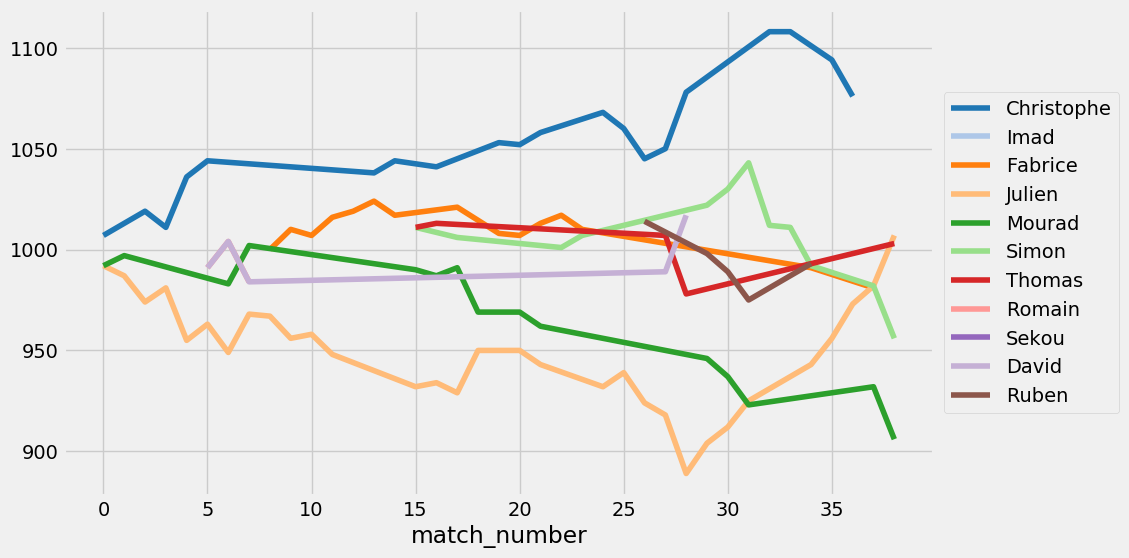
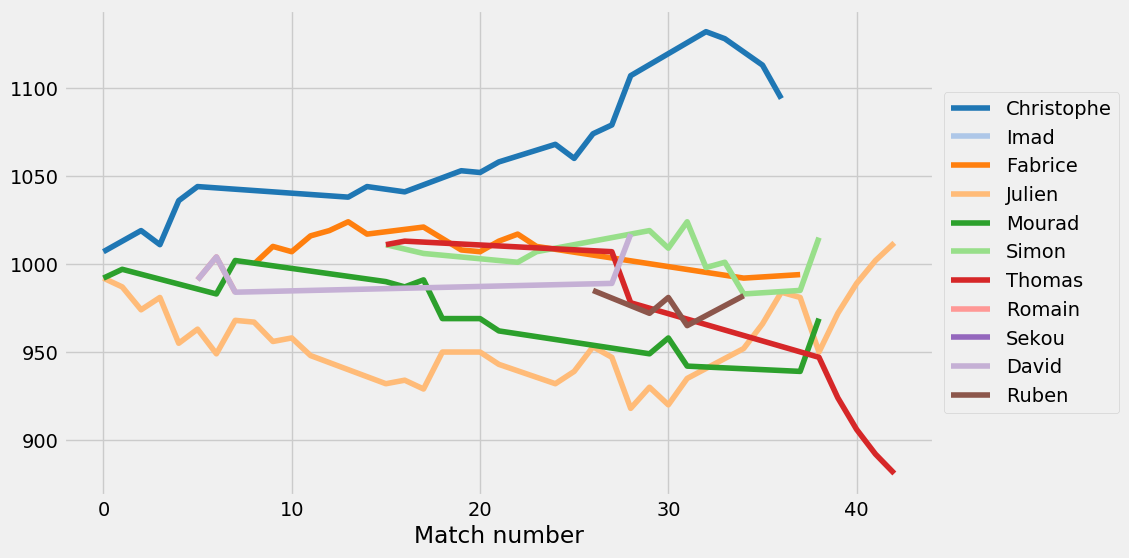
Correct bug

diff --git a/server.py b/server.py
@@ -166,9 +166,9 @@ class myHandler(BaseHTTPRequestHandler):
                     expected_scores.append(1 / (1 + 10**((elos[0] - elos[1])/500)))
                     if scores[0] > scores[1]:
                         updated_elos.append(elos[0] + 100 * ((max(scores) / (max(scores) + min(scores))) - expected_scores[0]))
-                        updated_elos.append(elos[1] + 100 * (1 - (max(scores) / ((max(scores) + min(scores)))) - expected_scores[1])) 
+                        updated_elos.append(elos[1] + 100 * (1 - (max(scores) / (max(scores) + min(scores))) - expected_scores[1])) 
                     else:
-                        updated_elos.append(elos[0] + 100 * (1 - (max(scores) / ((max(scores) + min(scores)))) - expected_scores[0]))
+                        updated_elos.append(elos[0] + 100 * (1 - (max(scores) / (max(scores) + min(scores))) - expected_scores[0]))
                         updated_elos.append(elos[1] + 100 * ((max(scores) / (max(scores) + min(scores))) - expected_scores[1]))
                 else:
                     expected_scores.append(1 / (1 + 10**(((((elos[2] + elos[3]) / 2) - ((elos[0] + elos[1])) / 2)) / 500)))
@@ -176,13 +176,13 @@ class myHandler(BaseHTTPRequestHandler):
                     if scores[0] > scores[1]:
                         updated_elos.append(elos[0] + 100 * ((max(scores) / (max(scores) + min(scores))) - expected_scores[0]))
                         updated_elos.append(elos[1] + 100 * ((max(scores) / (max(scores) + min(scores))) - expected_scores[0]))
-                        updated_elos.append(elos[2] + 100 * ((1 - (max(scores)/(max(scores) + min(scores)))) - expected_scores[1])) 
-                        updated_elos.append(elos[3] + 100 * ((1 - (max(scores)/(max(scores) + min(scores)))) - expected_scores[1])) 
+                        updated_elos.append(elos[2] + 100 * (1 - (max(scores) / (max(scores) + min(scores))) - expected_scores[1])) 
+                        updated_elos.append(elos[3] + 100 * (1 - (max(scores) / (max(scores) + min(scores))) - expected_scores[1])) 
                     else:
-                        updated_elos.append(elos[0] + 100 * ((max(scores) / (max(scores) + min(scores))) - expected_scores[0]))
-                        updated_elos.append(elos[1] + 100 * ((max(scores) / (max(scores) + min(scores))) - expected_scores[0]))
-                        updated_elos.append(elos[2] + 100 * ((1 - (max(scores) / (max(scores) + min(scores)))) - expected_scores[1]))
-                        updated_elos.append(elos[3] + 100 * ((1 - (max(scores) / (max(scores) + min(scores)))) - expected_scores[1]))
+                        updated_elos.append(elos[0] + 100 * (1 - (max(scores) / (max(scores) + min(scores))) - expected_scores[0]))
+                        updated_elos.append(elos[1] + 100 * (1 - (max(scores) / (max(scores) + min(scores))) - expected_scores[0]))
+                        updated_elos.append(elos[2] + 100 * ((max(scores) / (max(scores) + min(scores))) - expected_scores[1]))
+                        updated_elos.append(elos[3] + 100 * ((max(scores) / (max(scores) + min(scores))) - expected_scores[1]))
                     
                 for player,updated_elo in zip(players,updated_elos): 
                     new_elo_entry = {
@@ -210,8 +210,8 @@ class myHandler(BaseHTTPRequestHandler):
             for index,row in df_players.iterrows():
                 if (df_elos.player == row.player).any():
                     df_elos[df_elos.player == row.player].plot(x="match_number", y="elo", color=color_sequence[index], ax=ax, label=row.player)
-                    #plt.annotate('%0.2f' % var.max(), xy=(1, var.max()), xytext=(8, 0), 
-                # xycoords=('axes fraction', 'data'), textcoords='offset points')
+
+            plt.xlabel('Match number')
             lgd = plt.legend(loc='center left', bbox_to_anchor=(1, 0.5))
             plt.savefig("./elos.png", bbox_extra_artists=(lgd,), bbox_inches='tight')
 
